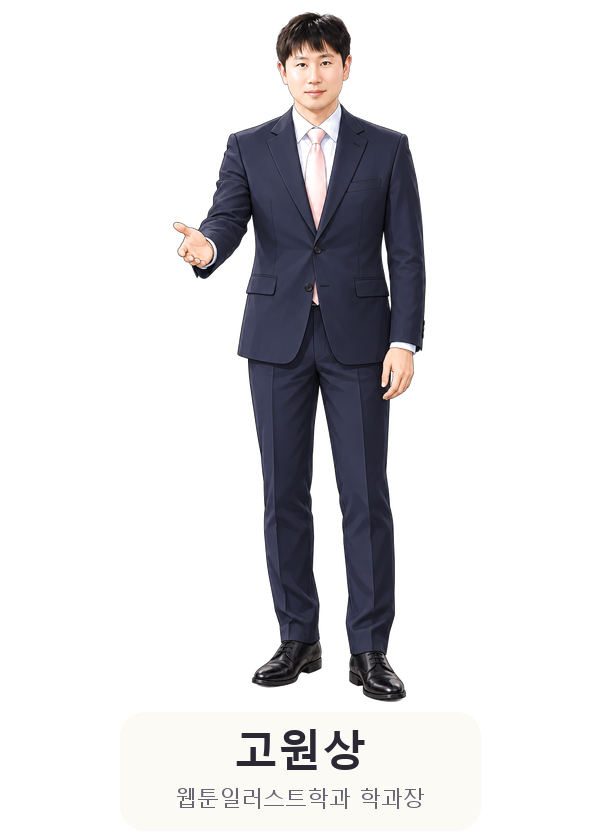
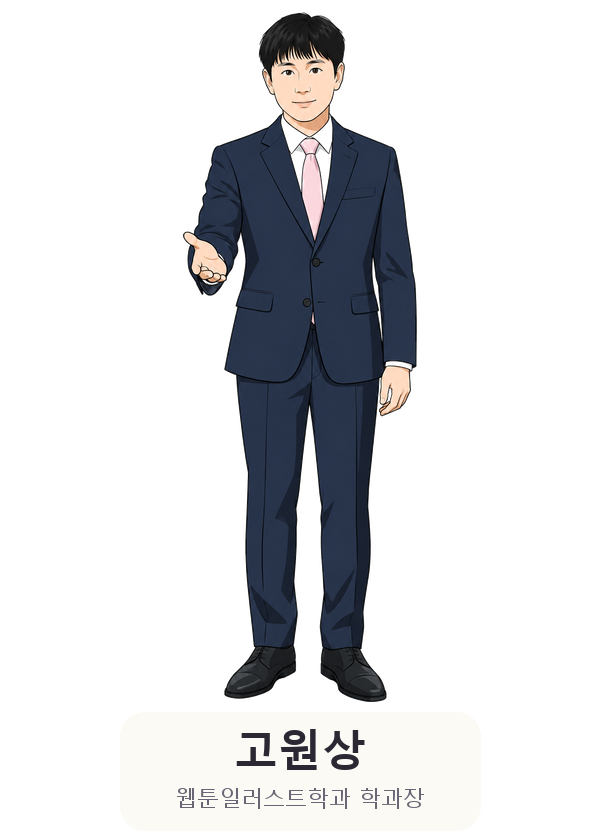
feat(gtec001): 학과장 등신대 웹툰 스타일 v2(펜 선·셀 셰이딩), 방명록대 위치 조정

Changed region(s): [[0.27, 0.0, 0.72, 0.8357]]

diff --git a/경기과학기술대학교/gtec001/site/src/three/world.ts b/경기과학기술대학교/gtec001/site/src/three/world.ts
@@ -315,7 +315,7 @@ export class World {
     });
     // 입구 게이트 안쪽: 학과장·사회자 스탠디(세워 둔 등신대) + 말풍선. 누르면 개회식 안내
     HOSTS.forEach((h, i) => {
-      const sx = h.id === "mc" ? 1 : -1; const g = new THREE.Group(); g.position.set(sx * (HALL_HALF - 1.1), 0, LOBBY_R + 3.6); g.rotation.y = sx * -0.25;
+      const sx = h.id === "mc" ? 1 : -1; const g = new THREE.Group(); g.position.set(sx * (HALL_HALF - 1.7), 0, LOBBY_R + 3.6); g.rotation.y = sx * -0.22;
       const tex = texLoader.load(h.img, (t) => { t.colorSpace = THREE.SRGBColorSpace; });
       // 등신대: 높이 2.4m(실제 키보다 조금 크게, 멀리서도 보이도록)
       const fig = new THREE.Mesh(new THREE.PlaneGeometry(1.72, 2.4), new THREE.MeshBasicMaterial({ map: tex, transparent: true, alphaTest: 0.1, side: THREE.DoubleSide })); fig.position.set(0, 1.22, 0); fig.userData = { kind: "host", index: i }; g.add(fig); this.clickables.push(fig);
@@ -332,7 +332,7 @@ export class World {
     });
     // 입구 방명록대: 게이트 안쪽 가운데 왼편. 펼친 책(최근 글이 보임) + QR 판. 누르면 방명록 페이지
     {
-      const g = new THREE.Group(); g.position.set(-1.9, 0, LOBBY_R + 7.2); g.rotation.y = 0.35;
+      const g = new THREE.Group(); g.position.set(-3.1, 0, LOBBY_R + 10.6); g.rotation.y = 0.5;  // 입구 왼쪽 벽 쪽(학과장 등신대를 가리지 않게)
       const woodMat = new THREE.MeshStandardMaterial({ color: 0x6B4A33, roughness: .7 });
       const stand = new THREE.Mesh(new THREE.BoxGeometry(0.5, 1.0, 0.5), woodMat); stand.position.y = 0.5; g.add(stand);
       const base = new THREE.Mesh(new THREE.CylinderGeometry(0.45, 0.5, 0.06, 20), woodMat); base.position.y = 0.03; g.add(base);

diff --git a/경기과학기술대학교/gtec001/process.md b/경기과학기술대학교/gtec001/process.md
@@ -28,6 +28,7 @@
 - 00:00 사이트 소스 16파일 작성, tsc 통과. 첫 스크린샷에서 표지가 책등으로 나와 히어로 깨짐 + 3D 시작 시점이 뒤(입구 벽)를 봄 → 수정. 히어로 보조 버튼 글자색 보정.
 - 00:10 재검수 통과. 문서(README·자료정리·기획서·대본·process·wiki) 작성. 00:20 사용자 미리보기 안내.
 - 01:20 휴대폰 미리보기 QR 3장(`qr/`, PC 주소 192.168.42.36:5201) 생성, 입구 QR 첨부해 사용자 메일로 링크 발송. 부하 시험(요청 #7)과 포토존 QR(요청 #8) 반영.
+- 14:00 요청 "학과장 등신대를 웹툰 스타일로": 같은 ChatGPT 대화에서 굵은 펜 선·2단계 셀 셰이딩으로 재생성(v2, `_src/dean_prompt2.txt`), v1 은 `_src/dean_webtoon_chatgpt_v1.png`. 입구 방명록대가 학과장 등신대를 가려 왼쪽 벽 쪽(x -3.1, z 로비+10.6)으로 옮기고 등신대 둘은 중앙 쪽으로. model3d 저장소는 git pull 결과 이미 최신(origin/main = c3b0f1d), 로컬 project/m003 은 미추적 작업분.
 - 13:50 요청 #14~#16: 등신대 2.4m 로 확대, 학과장 얼굴 웹툰풍 — 필터(OpenCV stylization)로는 부족해 jhong003 의 ChatGPT 이미지 연결기(Aside u0, `--ref` 사진 첨부)로 전신 웹툰 캐릭터 생성(`site/scripts/_src/dean_webtoon_chatgpt.png`, 프롬프트 `_src/dean_prompt.txt`, 대화 chong/project/gtec001/session.json). 공개 주소를 **/tjkim2/hwangjiyoung/** 로 변경(황지영 교수님 선물용, 사용자 표기 "hwanfjiyoung" 은 오타로 보고 hwangjiyoung), 옛 /gtec001/ 은 새 주소로 자동 이동.
 - 13:30 진행자 교체(요청 #12·#13): 학과장 고원상 = 본인 증명사진(KakaoTalk_20261024_124652097.jpg, 205×273)에서 얼굴만 타원으로 잘라 정장 몸 위에(`scripts/make_hosts.py`, OpenCV 5 에 CascadeClassifier 가 없어 고정 좌표). 사회자 → **졸업전시 위원장 안소희**(작가 프로필 캐릭터 카드, 부스 WE18). hosts.json 이름·호칭·개회식 첫 대사·입구 말풍선 수정, 화면의 "사회자" 표기 전부 "졸업전시 위원장"으로.
 - 13:10 사용자 "전시장에 안 들어가져" → 공개 주소를 PC·iPhone 에뮬레이션으로 점검: 번들 200, 콘솔 오류 0, 3D 정상. 원인 후보는 배포 직후 옛 index.html 캐시(max-age 600)가 사라진 번들을 가리키는 것 → index.html 에 스크립트 로드 실패 시 1회 주소 바꿔 재요청하는 가드 추가, WebGL 생성 실패 시 안내+2D 링크 표시. 재푸시.
